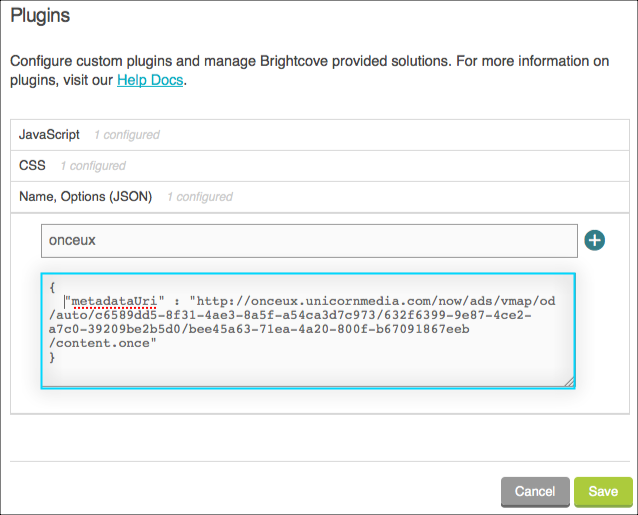
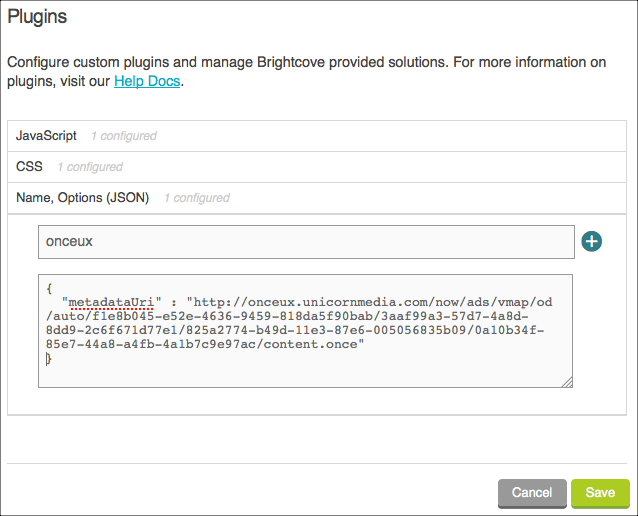
update BC Player onceux plugin doc with video that works in chrome.

diff --git a/en/video-cloud/brightcove-player/guides/onceux-plugin.html b/en/video-cloud/brightcove-player/guides/onceux-plugin.html
@@ -90,7 +90,7 @@
       <li>For the plugin name, enter <strong>onceux</strong>.</li>
       <li>The Option provided in the form specifies the URI to call to get your Once VMAP data. A stub example is shown here:<br/>
 <pre><code>{
-"metadataUri" : "http://onceux.unicornmedia.com/now/ads/vmap/od/auto/c6589dd5-8f31-4ae3-8a5f-a54ca3d7c973/632f6399-9e87-4ce2-a7c0-39209be2b5d0/bee45a63-71ea-4a20-800f-b67091867eeb/content.once"
+"metadataUri" : "http://onceux.unicornmedia.com/now/ads/vmap/od/auto/f1e8b045-e52e-4636-9459-818da5f90bab/3aaf99a3-57d7-4a8d-8dd9-2c6f671d77e1/825a2774-b49d-11e3-87e6-005056835b09/0a10b34f-85e7-44a8-a4fb-4a1b7c9e97ac/content.once"
 }</code></pre>
           <div><img src="/en/video-cloud/brightcove-player/guides/assets/onceux-options.png"></div>
         </li>
